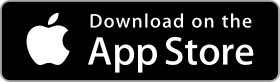
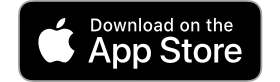
AppsFlyer Removed and Website Link and Image Updated

diff --git a/index.html b/index.html
@@ -1,2 +1,2 @@
 <html><head><meta charset="utf-8"/><link rel="icon" type="image/x-icon" href="./favicon.ico"/><meta http-equiv="X-UA-Compatible" content="IE=edge,chrome=1"/><title>Debate Timer</title><meta name="viewport" content="width=device-width, initial-scale=1"/><link href="http://fonts.googleapis.com/css?family=Lato:100,100i,300,300i,400,400i,700,700i,900,900i" rel="stylesheet" type="text/css"/><meta name="description" content="Privacy Policy:
-Public Forum Debate Timer does not collect, store, or process any data. It only tracks time."/><meta name="keywords" content="Debate Timer,Public,Forum"/><meta name="og:locale" property="og:locale" content="en_US"/><meta name="og:type" property="og:type" content="website"/><meta name="og:site_name" property="og:site_name" content="Debate Timer"/><meta name="og:title" property="og:title" content="Debate Timer"/><meta name="og:description" property="og:description" content="Public Forum"/><meta name="og:image" property="og:image" content="https://s3-us-west-2.amazonaws.com/skygear-cloud-asset/appsite/d146a0f5-02f9-44b6-a77f-a9929e087a7f-1.png"/><meta name="og:image:type" property="og:image:type" content="image/png"/><meta name="og:image:width" property="og:image:width" content="1024"/><meta name="og:image:height" property="og:image:height" content="1024"/><link rel="stylesheet" href="static/templates/template1/css/main.min.css"/></head><body><div><div class="dark"><div class="blurred-cover" style="background-color:rgb(47,100,215);background-image:none;filter:none;-webkit-filter:none;"></div></div><main id="main"><section class="hero"><div class="app-container container-fluid"><div class="app-container-wrapper"><div class="row"><div class="col-sm-5 col-xs-12"><div class="phone-container"><img src="static/templates/template1/images/phoneframe.png" class="frame-image"/><div id="carousel" class="carousel fade" data-ride="carousel"><div class="carousel-inner"><div class="item active"><img src="https://s3-us-west-2.amazonaws.com/skygear-cloud-asset/appsite/6200ce93-14ff-4d3a-b832-e1e9224ee3dc-screenshot.png" alt="6200ce93-14ff-4d3a-b832-e1e9224ee3dc-screenshot.png"/></div></div></div></div></div><div class="col-sm-7 col-xs-12"><div class="app-content"><h2 class="app-name app-field">Debate Timer</h2><h1 class="tag-line app-field">Public Forum</h1><div class="description app-field"><p>Privacy Policy:<br />Public Forum Debate Timer does not collect, store, or process any data. It only tracks time.</p></div><div><a class="app-link" id="appleLink" href="https://itunes.apple.com/hk/app/public-forum-debate-timer/id1295173100?mt=8&amp;uo=4"><img class="app-icon" src="static/templates/template1/images/badgeappstore.png"/></a></div><p><strong style="color:white;padding-right:22px;">Debate Timer</strong><a class="footer-link" style="color:white;" href="mailto:publicforumdebatetimer@gmail.com">Contact Us</a></p></div></div></div></div></div></section></main></div><div><script src="static/templates/template1/js/main.min.js"></script></div><script src="static/templates/analytics/analytics.js"></script></body></html>
+Public Forum Debate Timer does not collect, store, or process any data. It only tracks time."/><meta name="keywords" content="Debate Timer,Public,Forum"/><meta name="og:locale" property="og:locale" content="en_US"/><meta name="og:type" property="og:type" content="website"/><meta name="og:site_name" property="og:site_name" content="Debate Timer"/><meta name="og:title" property="og:title" content="Debate Timer"/><meta name="og:description" property="og:description" content="Public Forum"/><meta name="og:image" property="og:image" content="https://s3-us-west-2.amazonaws.com/skygear-cloud-asset/appsite/d146a0f5-02f9-44b6-a77f-a9929e087a7f-1.png"/><meta name="og:image:type" property="og:image:type" content="image/png"/><meta name="og:image:width" property="og:image:width" content="1024"/><meta name="og:image:height" property="og:image:height" content="1024"/><link rel="stylesheet" href="static/templates/template1/css/main.min.css"/></head><body><div><div class="dark"><div class="blurred-cover" style="background-color:rgb(47,100,215);background-image:none;filter:none;-webkit-filter:none;"></div></div><main id="main"><section class="hero"><div class="app-container container-fluid"><div class="app-container-wrapper"><div class="row"><div class="col-sm-5 col-xs-12"><div class="phone-container"><img src="static/templates/template1/images/phoneframe.png" class="frame-image"/><div id="carousel" class="carousel fade" data-ride="carousel"><div class="carousel-inner"><div class="item active"><img src="https://s3-us-west-2.amazonaws.com/skygear-cloud-asset/appsite/6200ce93-14ff-4d3a-b832-e1e9224ee3dc-screenshot.png" alt="6200ce93-14ff-4d3a-b832-e1e9224ee3dc-screenshot.png"/></div></div></div></div></div><div class="col-sm-7 col-xs-12"><div class="app-content"><h2 class="app-name app-field">Debate Timer</h2><h1 class="tag-line app-field">Public Forum</h1><div class="description app-field"><p>Privacy Policy:<br />Public Forum Debate Timer does not collect, store, or process any data. It only tracks time.</p></div><div><a class="app-link" id="appleLink" href="https://itunes.apple.com/us/app/public-forum-debate-timer/id1295173100?ls=1&mt=8"><img class="app-icon" src="static/templates/template1/images/badgeappstore.png"/></a></div><p><strong style="color:white;padding-right:22px;">Debate Timer</strong><a class="footer-link" style="color:white;" href="mailto:publicforumdebatetimer@gmail.com">Contact Us</a></p></div></div></div></div></div></section></main></div><div><script src="static/templates/template1/js/main.min.js"></script></div><script src="static/templates/analytics/analytics.js"></script></body></html>
